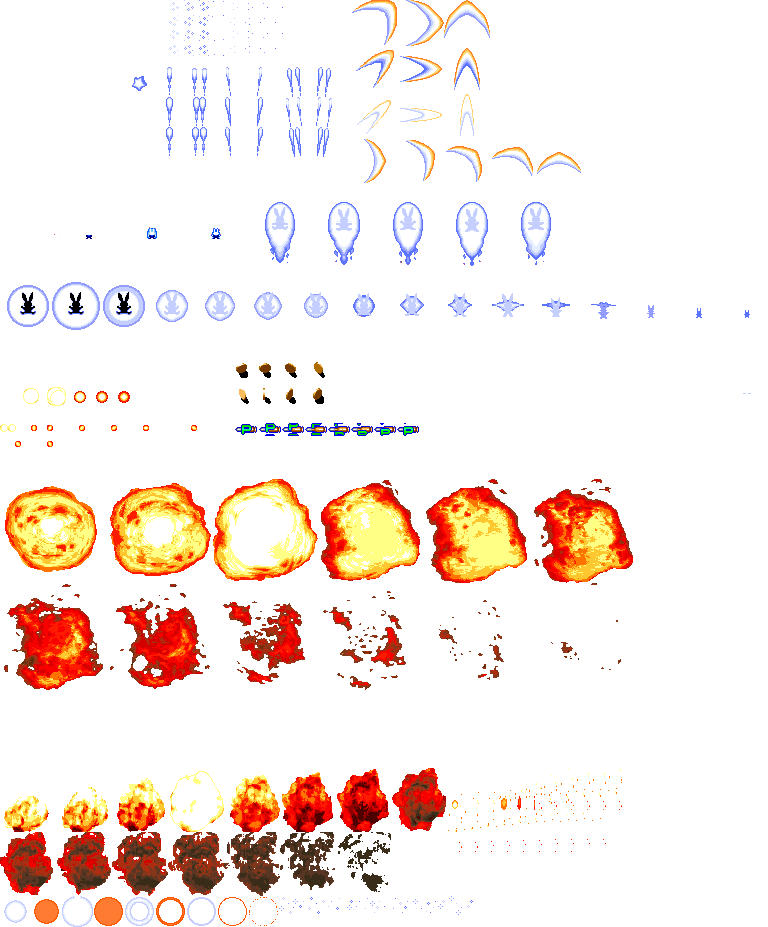
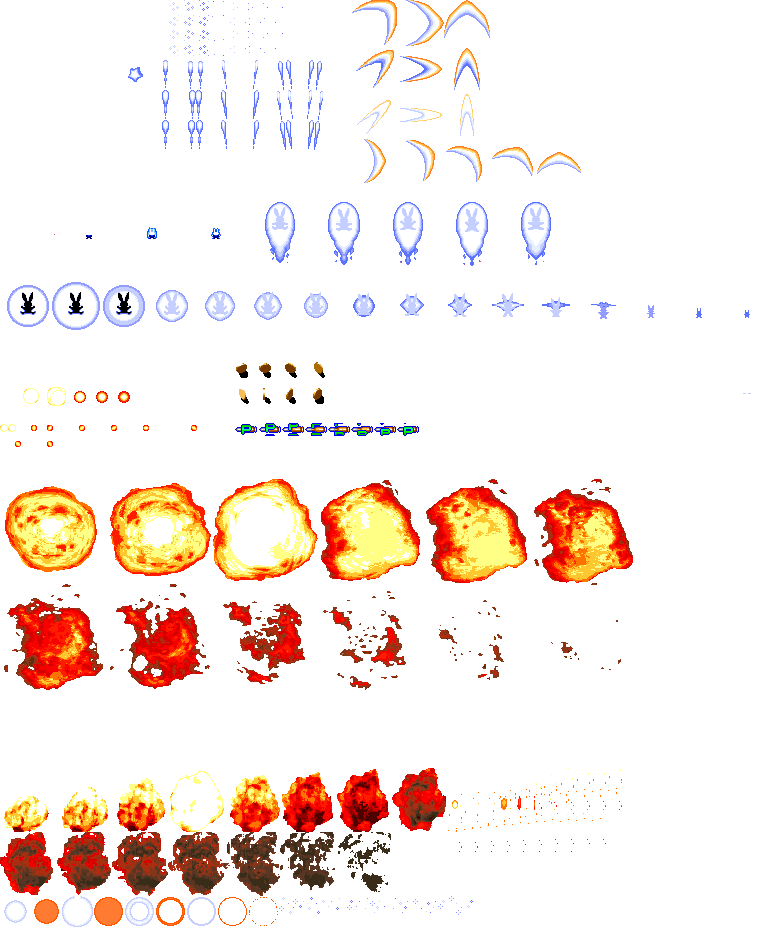
power up 3 and 4 added (no remote controlled stars)

Changed region(s): [[0.1562, 0.0604, 0.4375, 0.1812]]

diff --git a/gunbird/ModuleParticles.cpp b/gunbird/ModuleParticles.cpp
@@ -23,42 +23,113 @@ ModuleParticles::~ModuleParticles()
 bool ModuleParticles::Init()
 {
 
-	marionbeam_lv1[0].anim.PushBack({ 166,67, 7, 29 });
+	marionbeam_lv1[0].anim.PushBack({ 150, 60, 30, 30 });
 	marionbeam_lv1[0].anim.loop = false;
 	marionbeam_lv1[0].anim.speed = 0.3f;
-	marionbeam_lv1[0].speed.y = -4;
+	marionbeam_lv1[0].speed.y = -10;
 	marionbeam_lv1[0].life = 4000;
 
-	marionbeam_lv1[1].anim.PushBack({ 166, 97, 7, 29 });
+	marionbeam_lv1[1].anim.PushBack({ 150, 90, 30, 30 });
 	marionbeam_lv1[1].anim.loop = false;
 	marionbeam_lv1[1].anim.speed = 0.3f;
-	marionbeam_lv1[1].speed.y = -4;
+	marionbeam_lv1[1].speed.y = -10;
 	marionbeam_lv1[1].life = 4000;
 
-	marionbeam_lv1[2].anim.PushBack({ 166, 127, 7, 29 });
+	marionbeam_lv1[2].anim.PushBack({ 150, 120, 30, 30 });
 	marionbeam_lv1[2].anim.loop = false;
 	marionbeam_lv1[2].anim.speed = 0.3f;
-	marionbeam_lv1[2].speed.y = -4;
+	marionbeam_lv1[2].speed.y = -10;
 	marionbeam_lv1[2].life = 4000;
 
-	marionbeam_lv2[0].anim.PushBack({ 192,68, 15, 28 });
+	marionbeam_lv2[0].anim.PushBack({ 180, 60, 30, 30 });
 	marionbeam_lv2[0].anim.loop = false;
 	marionbeam_lv2[0].anim.speed = 0.3f;
-	marionbeam_lv2[0].speed.y = -4;
+	marionbeam_lv2[0].speed.y = -10;
 	marionbeam_lv2[0].life = 4000;
 
-	marionbeam_lv2[1].anim.PushBack({ 192, 97, 15, 29 });
+	marionbeam_lv2[1].anim.PushBack({ 180, 90, 30, 30 });
 	marionbeam_lv2[1].anim.loop = false;
 	marionbeam_lv2[1].anim.speed = 0.3f;
-	marionbeam_lv2[1].speed.y = -4;
+	marionbeam_lv2[1].speed.y = -10;
 	marionbeam_lv2[1].life = 4000;
 
-	marionbeam_lv2[2].anim.PushBack({ 192, 127, 15, 29 });
+	marionbeam_lv2[2].anim.PushBack({ 180, 120, 30, 30 });
 	marionbeam_lv2[2].anim.loop = false;
 	marionbeam_lv2[2].anim.speed = 0.3f;
-	marionbeam_lv2[2].speed.y = -4;
+	marionbeam_lv2[2].speed.y = -10;
 	marionbeam_lv2[2].life = 4000;
 
+	marionbeamleft_lv1[0].anim.PushBack({ 210, 60, 30, 30 });
+	marionbeamleft_lv1[0].anim.loop = false;
+	marionbeamleft_lv1[0].anim.speed = 0.3f;
+	marionbeamleft_lv1[0].speed.y = -10;
+	marionbeamleft_lv1[0].life = 4000;
+
+	marionbeamleft_lv1[1].anim.PushBack({ 210, 90, 30, 30 });
+	marionbeamleft_lv1[1].anim.loop = false;
+	marionbeamleft_lv1[1].anim.speed = 0.3f;
+	marionbeamleft_lv1[1].speed.y = -10;
+	marionbeamleft_lv1[1].life = 4000;
+
+	marionbeamleft_lv1[2].anim.PushBack({ 210, 120, 30, 30 });
+	marionbeamleft_lv1[2].anim.loop = false;
+	marionbeamleft_lv1[2].anim.speed = 0.3f;
+	marionbeamleft_lv1[2].speed.y = -10;
+	marionbeamleft_lv1[2].life = 4000;
+
+	marionbeamleft_lv2[0].anim.PushBack({ 270, 60, 30, 30 });
+	marionbeamleft_lv2[0].anim.loop = false;
+	marionbeamleft_lv2[0].anim.speed = 0.3f;
+	marionbeamleft_lv2[0].speed.y = -10;
+	marionbeamleft_lv2[0].life = 4000;
+
+	marionbeamleft_lv2[1].anim.PushBack({ 270, 90, 30, 30 });
+	marionbeamleft_lv2[1].anim.loop = false;
+	marionbeamleft_lv2[1].anim.speed = 0.3f;
+	marionbeamleft_lv2[1].speed.y = -10;
+	marionbeamleft_lv2[1].life = 4000;
+
+	marionbeamleft_lv2[2].anim.PushBack({ 270, 120, 30, 30 });
+	marionbeamleft_lv2[2].anim.loop = false;
+	marionbeamleft_lv2[2].anim.speed = 0.3f;
+	marionbeamleft_lv2[2].speed.y = -10;
+	marionbeamleft_lv2[2].life = 4000;
+
+	marionbeamright_lv1[0].anim.PushBack({ 240, 60, 30, 30 });
+	marionbeamright_lv1[0].anim.loop = false;
+	marionbeamright_lv1[0].anim.speed = 0.3f;
+	marionbeamright_lv1[0].speed.y = -10;
+	marionbeamright_lv1[0].life = 4000;
+
+	marionbeamright_lv1[1].anim.PushBack({ 240, 90, 30, 30 });
+	marionbeamright_lv1[1].anim.loop = false;
+	marionbeamright_lv1[1].anim.speed = 0.3f;
+	marionbeamright_lv1[1].speed.y = -10;
+	marionbeamright_lv1[1].life = 4000;
+
+	marionbeamright_lv1[2].anim.PushBack({ 240, 120, 30, 30 });
+	marionbeamright_lv1[2].anim.loop = false;
+	marionbeamright_lv1[2].anim.speed = 0.3f;
+	marionbeamright_lv1[2].speed.y = -10;
+	marionbeamright_lv1[2].life = 4000;
+
+	marionbeamright_lv2[0].anim.PushBack({ 300, 60, 30, 30 });
+	marionbeamright_lv2[0].anim.loop = false;
+	marionbeamright_lv2[0].anim.speed = 0.3f;
+	marionbeamright_lv2[0].speed.y = -10;
+	marionbeamright_lv2[0].life = 4000;
+
+	marionbeamright_lv2[1].anim.PushBack({ 300, 90, 30, 30 });
+	marionbeamright_lv2[1].anim.loop = false;
+	marionbeamright_lv2[1].anim.speed = 0.3f;
+	marionbeamright_lv2[1].speed.y = -10;
+	marionbeamright_lv2[1].life = 4000;
+
+	marionbeamright_lv2[2].anim.PushBack({ 300, 120, 30, 30 });
+	marionbeamright_lv2[2].anim.loop = false;
+	marionbeamright_lv2[2].anim.speed = 0.3f;
+	marionbeamright_lv2[2].speed.y = -10;
+	marionbeamright_lv2[2].life = 4000;
 
 	smallshot.anim.PushBack({ 31, 425, 6, 6 });
 	smallshot.anim.PushBack({ 47, 425, 6, 6 });

diff --git a/gunbird/ModulePlayer.cpp b/gunbird/ModulePlayer.cpp
@@ -426,10 +426,20 @@ void ModulePlayer::shootburst(int level)
 	switch (level)
 	{
 	case 0:
-		App->particles->AddParticle(App->particles->marionbeam_lv1[beam++], position.x + 11, position.y - 25, COLLIDER_PLAYER_SHOT);
+		App->particles->AddParticle(App->particles->marionbeam_lv1[beam++], position.x - 3, position.y, COLLIDER_PLAYER_SHOT);
 		break;
 	case 1:
-		App->particles->AddParticle(App->particles->marionbeam_lv2[beam++], position.x + 7, position.y - 25, COLLIDER_PLAYER_SHOT);
+		App->particles->AddParticle(App->particles->marionbeam_lv2[beam++], position.x - 7, position.y, COLLIDER_PLAYER_SHOT);
+		break;
+	case 2:
+		App->particles->AddParticle(App->particles->marionbeam_lv1[beam], position.x - 3, position.y, COLLIDER_PLAYER_SHOT);
+		App->particles->AddParticle(App->particles->marionbeamleft_lv1[beam], position.x - 6, position.y, COLLIDER_PLAYER_SHOT, -1.75f);
+		App->particles->AddParticle(App->particles->marionbeamright_lv1[beam++], position.x + 2, position.y, COLLIDER_PLAYER_SHOT, 1.75f);
+		break;
+	case 3:
+		App->particles->AddParticle(App->particles->marionbeam_lv2[beam], position.x - 2, position.y, COLLIDER_PLAYER_SHOT);
+		App->particles->AddParticle(App->particles->marionbeamleft_lv2[beam], position.x - 7, position.y, COLLIDER_PLAYER_SHOT, -1.75f);
+		App->particles->AddParticle(App->particles->marionbeamright_lv2[beam++], position.x + 3, position.y, COLLIDER_PLAYER_SHOT, 1.75f);
 		break;
 	}
 

diff --git a/gunbird/Application.cpp b/gunbird/Application.cpp
@@ -31,9 +31,9 @@ Application::Application()
 	modules[i++] = scene_mine = new ModuleMineScene();
 	modules[i++] = scene_score = new ModuleScoreScene();
 	modules[i++] = enemies = new ModuleEnemies();
+	modules[i++] = particles = new ModuleParticles();
 	modules[i++] = player = new ModulePlayer();
 	modules[i++] = player2 = new ModulePlayer2();
-	modules[i++] = particles = new ModuleParticles();
 	modules[i++] = collision = new ModuleCollision();
 	modules[i++] = fade = new ModuleFadeToBlack();
 	modules[i++] = fonts = new ModuleFonts();

diff --git a/gunbird/ModuleParticles.h b/gunbird/ModuleParticles.h
@@ -62,6 +62,10 @@ public:
 
 	Particle marionbeam_lv1[3];
 	Particle marionbeam_lv2[3];
+	Particle marionbeamleft_lv1[3];
+	Particle marionbeamleft_lv2[3];
+	Particle marionbeamright_lv1[3];
+	Particle marionbeamright_lv2[3];
 	Particle smallshot;
 	Particle prebigshot;
 	Particle bigshot;

diff --git a/gunbird/ModulePlayer.h b/gunbird/ModulePlayer.h
@@ -7,8 +7,8 @@
 #include "p2Point.h"
 #include "ModuleCollision.h"
 
-#define MAX_LEVEL 2
-#define MARION_RELOAD 120
+#define MAX_LEVEL 4
+#define MARION_RELOAD 90
 
 struct SDL_Texture;
 struct Collider;

diff --git a/gunbird/ModuleTextures.cpp b/gunbird/ModuleTextures.cpp
@@ -99,6 +99,8 @@ bool ModuleTextures::Unload(SDL_Texture* texture)
 	{
 		if (texture == textures[i])
 		{
+
+
 			SDL_DestroyTexture(textures[i]);
 			textures[i] = nullptr;
 			ret = true;

diff --git a/gunbird/ModulePlayer2.h b/gunbird/ModulePlayer2.h
@@ -7,7 +7,6 @@
 #include "p2Point.h"
 #include "ModuleCollision.h"
 
-#define MAX_LEVEL 2
 #define MARION_RELOAD 120
 
 struct SDL_Texture;
